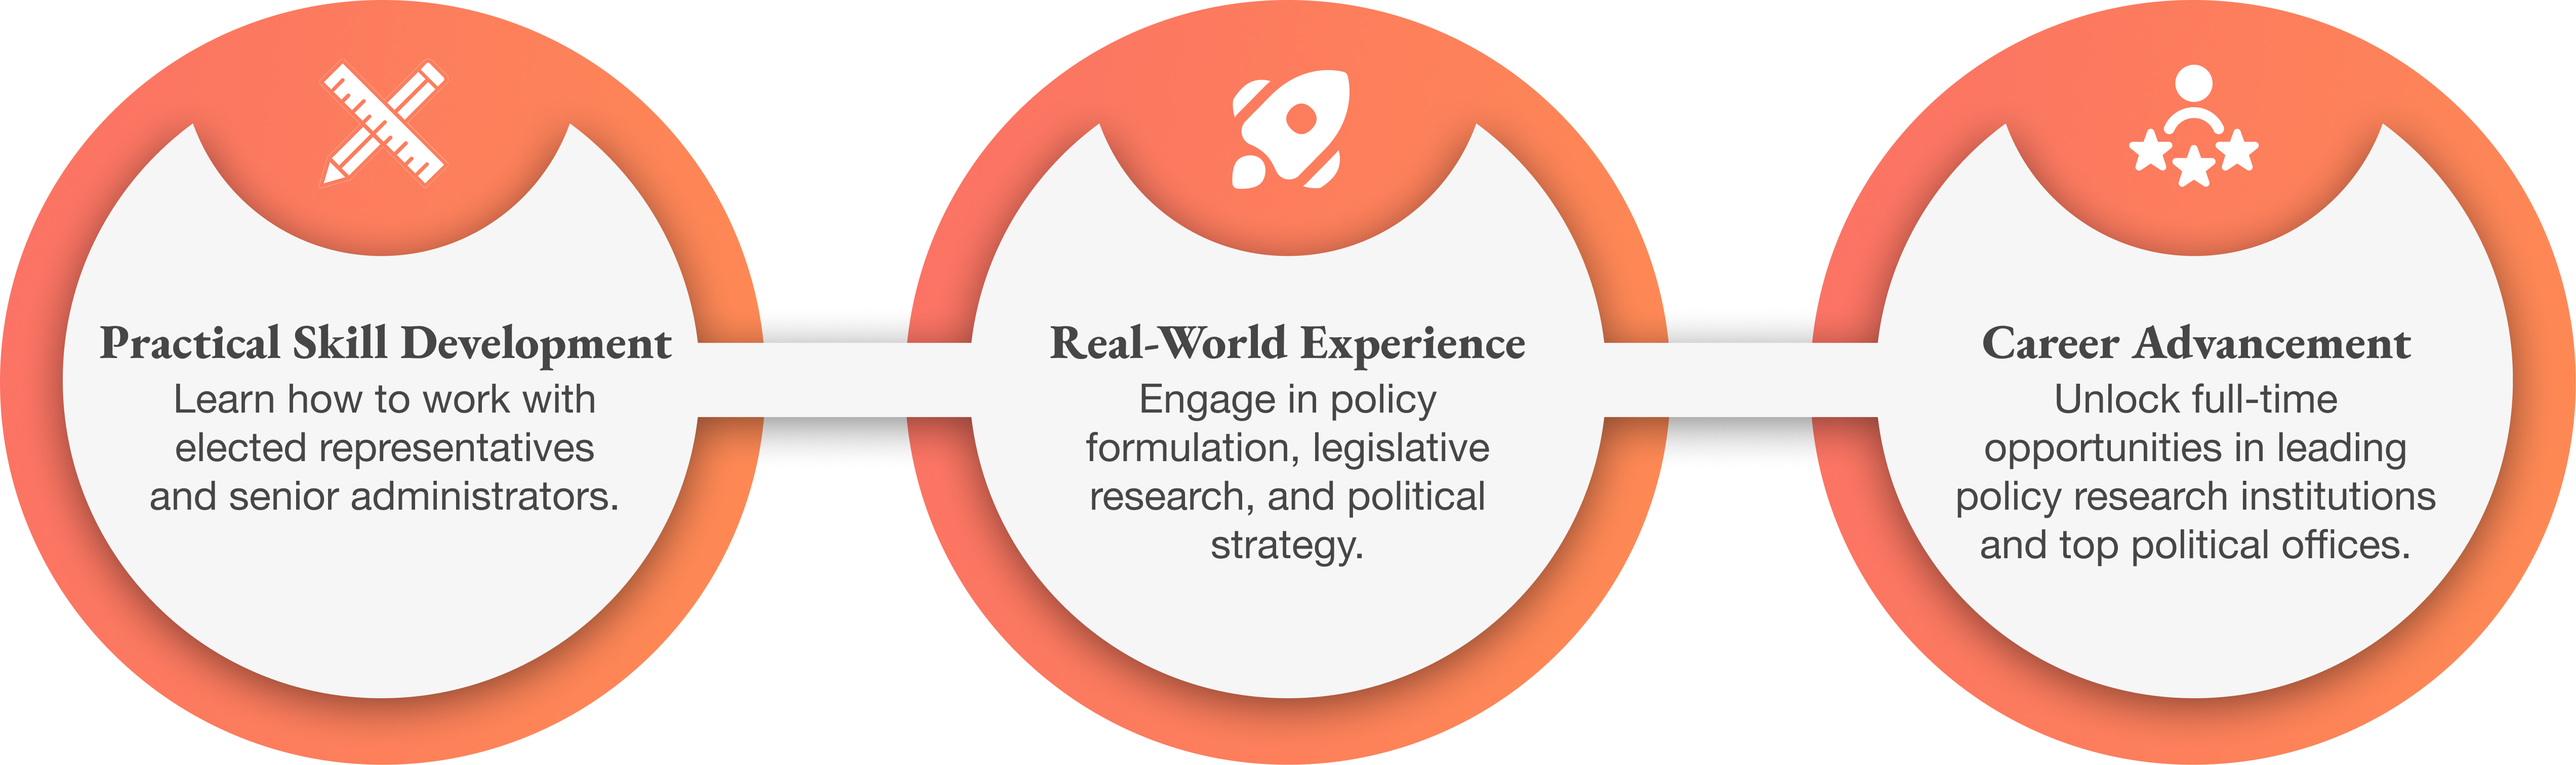
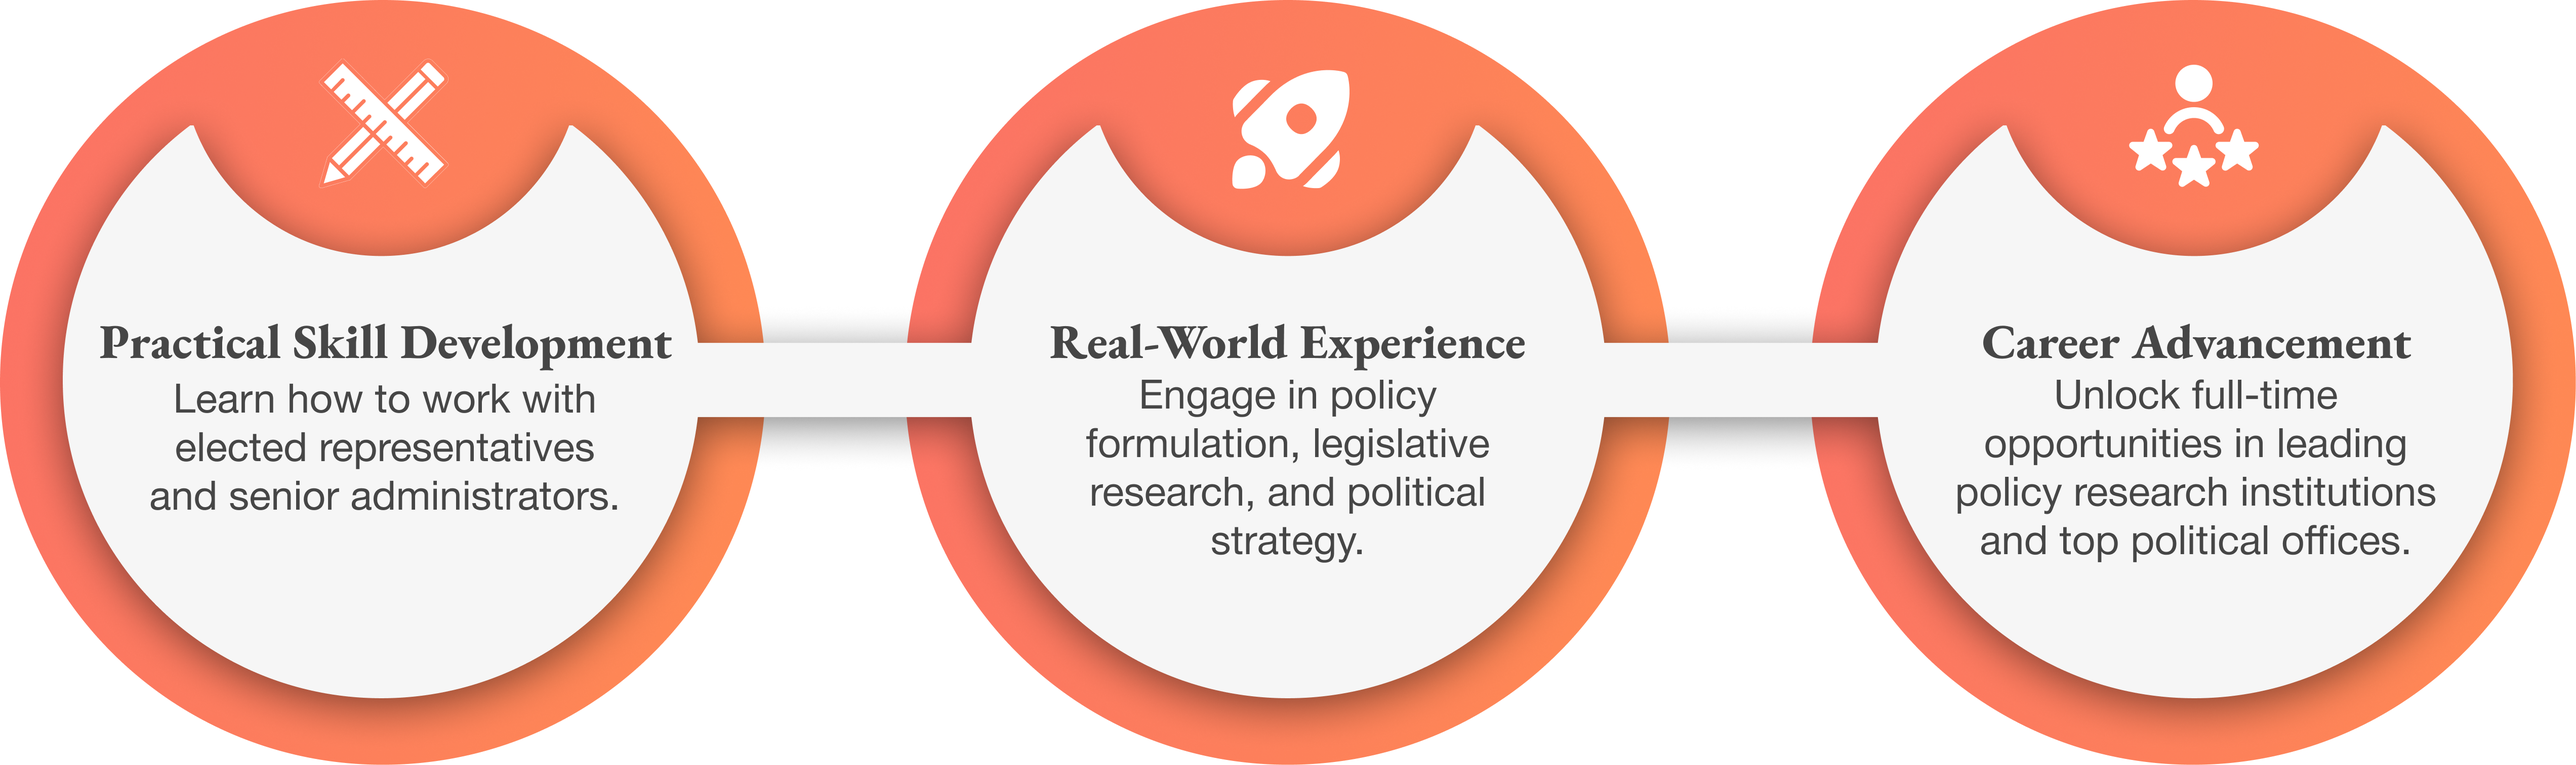
fixes

Changed region(s): [[0.7499, 0.497, 0.9686, 0.7455], [0.4062, 0.497, 0.5936, 0.7455]]

diff --git a/src/components/home/offering.tsx b/src/components/home/offering.tsx
@@ -26,7 +26,7 @@ export default function Offerings() {
         {/* <div className=""> */}
         <motion.h2
           transition={{ duration: 0.7, delay: 0.4 }}
-          className="helvetica-neue-bold py-[24px] text-[18px] text-[#FB7165] md:text-4xl"
+          className="helvetica-bold py-[10px] text-[18px] leading-tight text-[#FB7165] md:text-[30px]"
         >
           Presents young professionals with an immersive{" "}
           <span className="text-[#FE8854]">
@@ -62,7 +62,7 @@ export default function Offerings() {
         <div className="relative mx-auto max-w-7xl">
           {/* Title */}
           <motion.h3
-            className="font-EB-extrabold mb-12 mt-0 text-3xl text-gray-800 sm:mt-12 sm:text-6xl"
+            className="font-EB-extrabold mb-6 mt-0 text-3xl text-gray-800 sm:mt-12 sm:text-6xl md:mb-12"
             initial={{ opacity: 0, y: -20 }}
             whileInView={{ opacity: 1, y: 0 }}
             transition={{ duration: 0.7, delay: 0.2 }}
@@ -82,7 +82,7 @@ export default function Offerings() {
           />
           <div className="block space-y-4 sm:hidden">
             <motion.img
-              src="/image01.png"
+              src="/offer_mobile.png"
               alt="Offerings"
               className="mx-auto max-w-[75%]"
               initial={{ opacity: 0, scale: 0.9 }}
@@ -90,7 +90,7 @@ export default function Offerings() {
               transition={{ duration: 0.8, delay: 0.8 }}
               viewport={{ once: true }}
             />
-            <motion.img
+            {/* <motion.img
               src="/image02.png"
               alt="Offerings"
               className="mx-auto max-w-[75%]"
@@ -107,7 +107,7 @@ export default function Offerings() {
               whileInView={{ opacity: 1, scale: 1 }}
               transition={{ duration: 0.8, delay: 0.8 }}
               viewport={{ once: true }}
-            />
+            /> */}
           </div>
         </div>
       </motion.section>

diff --git a/src/components/home/mobtestimonials.tsx b/src/components/home/mobtestimonials.tsx
@@ -50,7 +50,7 @@ export default function TestimonialsMob() {
         transition={{ duration: 0.6 }}
         viewport={{ once: true }}
       >
-        <h2 className="font-EB-extrabold text-grad mb-2 text-center text-2xl">
+        <h2 className="font-EB-extrabold mb-2 text-center text-[30px] text-[#181818]">
           Testimonials
         </h2>
       </motion.div>
@@ -93,8 +93,8 @@ export default function TestimonialsMob() {
             {testimonials.map((testimonial, index) => (
               <SwiperSlide key={index}>
                 <motion.div
-                  className="relative m-3 mb-8 bg-white p-6"
-                  // style={{ boxShadow: "rgb(131 131 131) 0px 0px 7px" }}
+                  // className="relative m-3 mb-8 bg-white p-6"
+                  className="relative mb-8 bg-white p-6"
                   initial={{ opacity: 0, x: 50 }}
                   animate={{ opacity: 1, x: 0 }}
                   exit={{ opacity: 0, x: -50 }}
@@ -141,10 +141,17 @@ export default function TestimonialsMob() {
 
                       {/* Name and Position Centered */}
                       <div className="text-center">
-                        <h4 className="font-EB-extrabold text-grad text-[13.25px]">
+                        {/* <h4 className="font-EB-extrabold text-[13.25px] text-[#181818]">
                           {testimonial.name}
                         </h4>
                         <p className="helvetica-neue-regular text-[9.275px] text-base text-[#555]">
+                          {testimonial.position}
+                        </p> */}
+
+                        <h4 className="helvetica-neue-bold mt-4 text-black">
+                          {testimonial.name}
+                        </h4>
+                        <p className="helvetica-neue-regular text-sm text-gray-500">
                           {testimonial.position}
                         </p>
                       </div>

diff --git a/src/components/home/banner.tsx b/src/components/home/banner.tsx
@@ -3,10 +3,10 @@ import { motion } from "framer-motion";
 
 export default function VideoBanner() {
   return (
-    <div className="relative px-4 xl:px-0 mx-auto w-full h-[60vh] sm:h-screen overflow-hidden bg-white">
+    <div className="relative mx-auto h-[60vh] w-full overflow-hidden bg-white px-4 sm:h-screen xl:px-0">
       {/* Background Video */}
       <motion.video
-        className="absolute top-0 left-0 w-full h-full object-cover bg-white"
+        className="absolute left-0 top-0 h-full w-full bg-white object-cover"
         autoPlay
         loop
         muted
@@ -30,7 +30,7 @@ export default function VideoBanner() {
 
       {/* Text Content with Staggered Animation */}
       <motion.div
-        className="absolute inset-0 flex flex-col justify-end bottom-8 sm:bottom-28 text-left text-white px-4 sm:px-20 md:px-20"
+        className="absolute inset-0 bottom-8 flex flex-col justify-end px-4 text-left text-white sm:bottom-28 sm:px-20 md:px-20"
         initial="hidden"
         animate="visible"
         variants={{
@@ -44,7 +44,7 @@ export default function VideoBanner() {
       >
         {/* Subheading */}
         <motion.h3
-          className="text-sm sm:text-xl md:text-4xl helvetica-neue"
+          className="helvetica-neue text-sm sm:text-xl md:text-4xl"
           variants={{
             hidden: { opacity: 0, y: 20 },
             visible: { opacity: 1, y: 0 },
@@ -59,7 +59,7 @@ export default function VideoBanner() {
 
         {/* Main Heading */}
         <motion.h1
-          className="text-3xl sm:text-5xl md:text-8xl mt-2 font-EB-extrabold whitespace-nowrap"
+          className="font-EB-extrabold whitespace-nowrap text-3xl sm:text-5xl md:text-8xl"
           variants={{
             hidden: { opacity: 0, y: 20 },
             visible: { opacity: 1, y: 0 },

diff --git a/src/components/header.tsx b/src/components/header.tsx
@@ -51,7 +51,7 @@ export default function Header() {
   };
   return (
     <motion.header
-      className={`fixed top-0 z-50 w-full transition-all duration-300 ${
+      className={`fixed top-0 z-50 w-full transition-all duration-300 md:py-2 ${
         isScrolled ? "bg-white shadow-md" : "bg-white shadow-sm"
       }`}
       initial={{ opacity: 0, y: -30 }}
@@ -68,11 +68,19 @@ export default function Header() {
         >
           <Link href="/">
             <Image
+              src="/mobile_logo.png"
+              alt="Mukherjee Fellowship"
+              width={100}
+              height={100}
+              className="h-[22px] sm:h-[51px] sm:w-[262px] md:hidden"
+            />
+
+            <Image
               src="/logo.png"
               alt="Mukherjee Fellowship"
               width={100}
               height={100}
-              className="h-[20px] w-[102px] sm:h-[51px] sm:w-[262px]"
+              className="hidden h-[22px] sm:h-[51px] sm:w-[262px] md:block"
             />
           </Link>
         </motion.div>

diff --git a/src/components/home/imagebanner.tsx b/src/components/home/imagebanner.tsx
@@ -5,7 +5,7 @@ import Image from "next/image";
 export default function ExperientialLearning() {
   return (
     <motion.section
-      className="bg-white px-6 py-12 text-center sm:mb-12 md:px-12"
+      className="mt-[60px] bg-white px-6 py-12 text-center sm:mb-12 md:px-12"
       initial={{ opacity: 0, y: 30 }}
       animate={{ opacity: 1, y: 0 }}
       transition={{ duration: 0.8 }}
@@ -23,8 +23,8 @@ export default function ExperientialLearning() {
           src="/imglearn.png"
           alt="Fellows at New Parliament Building"
           width={1000}
-          height={600}
-          className="h-[165px] w-full rounded-lg object-contain md:h-auto"
+          height={400}
+          className="w-full rounded-[4px]"
         />
       </motion.div>
 

diff --git a/src/components/footer.tsx b/src/components/footer.tsx
@@ -37,9 +37,10 @@ export default function Footer() {
             src="/footerlogo.png"
             alt="Mukherjee Fellowship"
             width={150}
-            height={50}
-            className="sm:h-30 mx-0 h-[109.598px] w-[126px] sm:w-40"
+            height={300}
+            className="sm:h-30 mx-0 h-[109.598px] w-[126px] sm:w-40 md:h-[147px] md:w-[169px]"
           />
+
           <p className="helvetica-neue-regular mt-4 text-base text-[#1E1E1E]">
             Creating opportunities for students and young professionals in
             Policy, Politics & Governance.

diff --git a/src/components/home/testonomial.tsx b/src/components/home/testonomial.tsx
@@ -100,7 +100,9 @@ export default function Testimonials() {
               <SwiperSlide key={index}>
                 <motion.div
                   className="relative m-3 mb-8 bg-white p-6 shadow-lg"
-                  style={{ boxShadow: "rgb(131 131 131) 0px 0px 7px" }}
+                  style={{
+                    boxShadow: "0px 4px 13.9px 0px rgba(59, 59, 59, 0.25)",
+                  }}
                   initial={{ opacity: 0, x: 50 }}
                   animate={{ opacity: 1, x: 0 }}
                   exit={{ opacity: 0, x: -50 }}

diff --git a/src/components/faq/faqcomp.tsx b/src/components/faq/faqcomp.tsx
@@ -182,7 +182,7 @@ export default function FAQSection() {
       >
         <input
           type="text"
-          placeholder="Search for a question..."
+          placeholder="Ask a question"
           className="w-full rounded-lg border p-3 text-gray-700 shadow-md transition-all duration-300 focus:outline-none focus:ring-2 focus:ring-orange-500"
           value={searchQuery}
           onChange={(e) => setSearchQuery(e.target.value)}

diff --git a/src/components/home/fellowship.tsx b/src/components/home/fellowship.tsx
@@ -5,7 +5,7 @@ import Image from "next/image";
 export default function LearningModules() {
   return (
     <motion.section
-      className="mt-4 px-4 py-0 text-center sm:mt-16 sm:bg-gray-100 sm:py-20 md:px-12"
+      className="mt-[60px] px-4 py-0 text-center sm:mt-16 sm:bg-gray-100 sm:py-20 md:px-12"
       initial={{ opacity: 0, y: 30 }}
       animate={{ opacity: 1, y: 0 }}
       transition={{ duration: 0.8 }}
